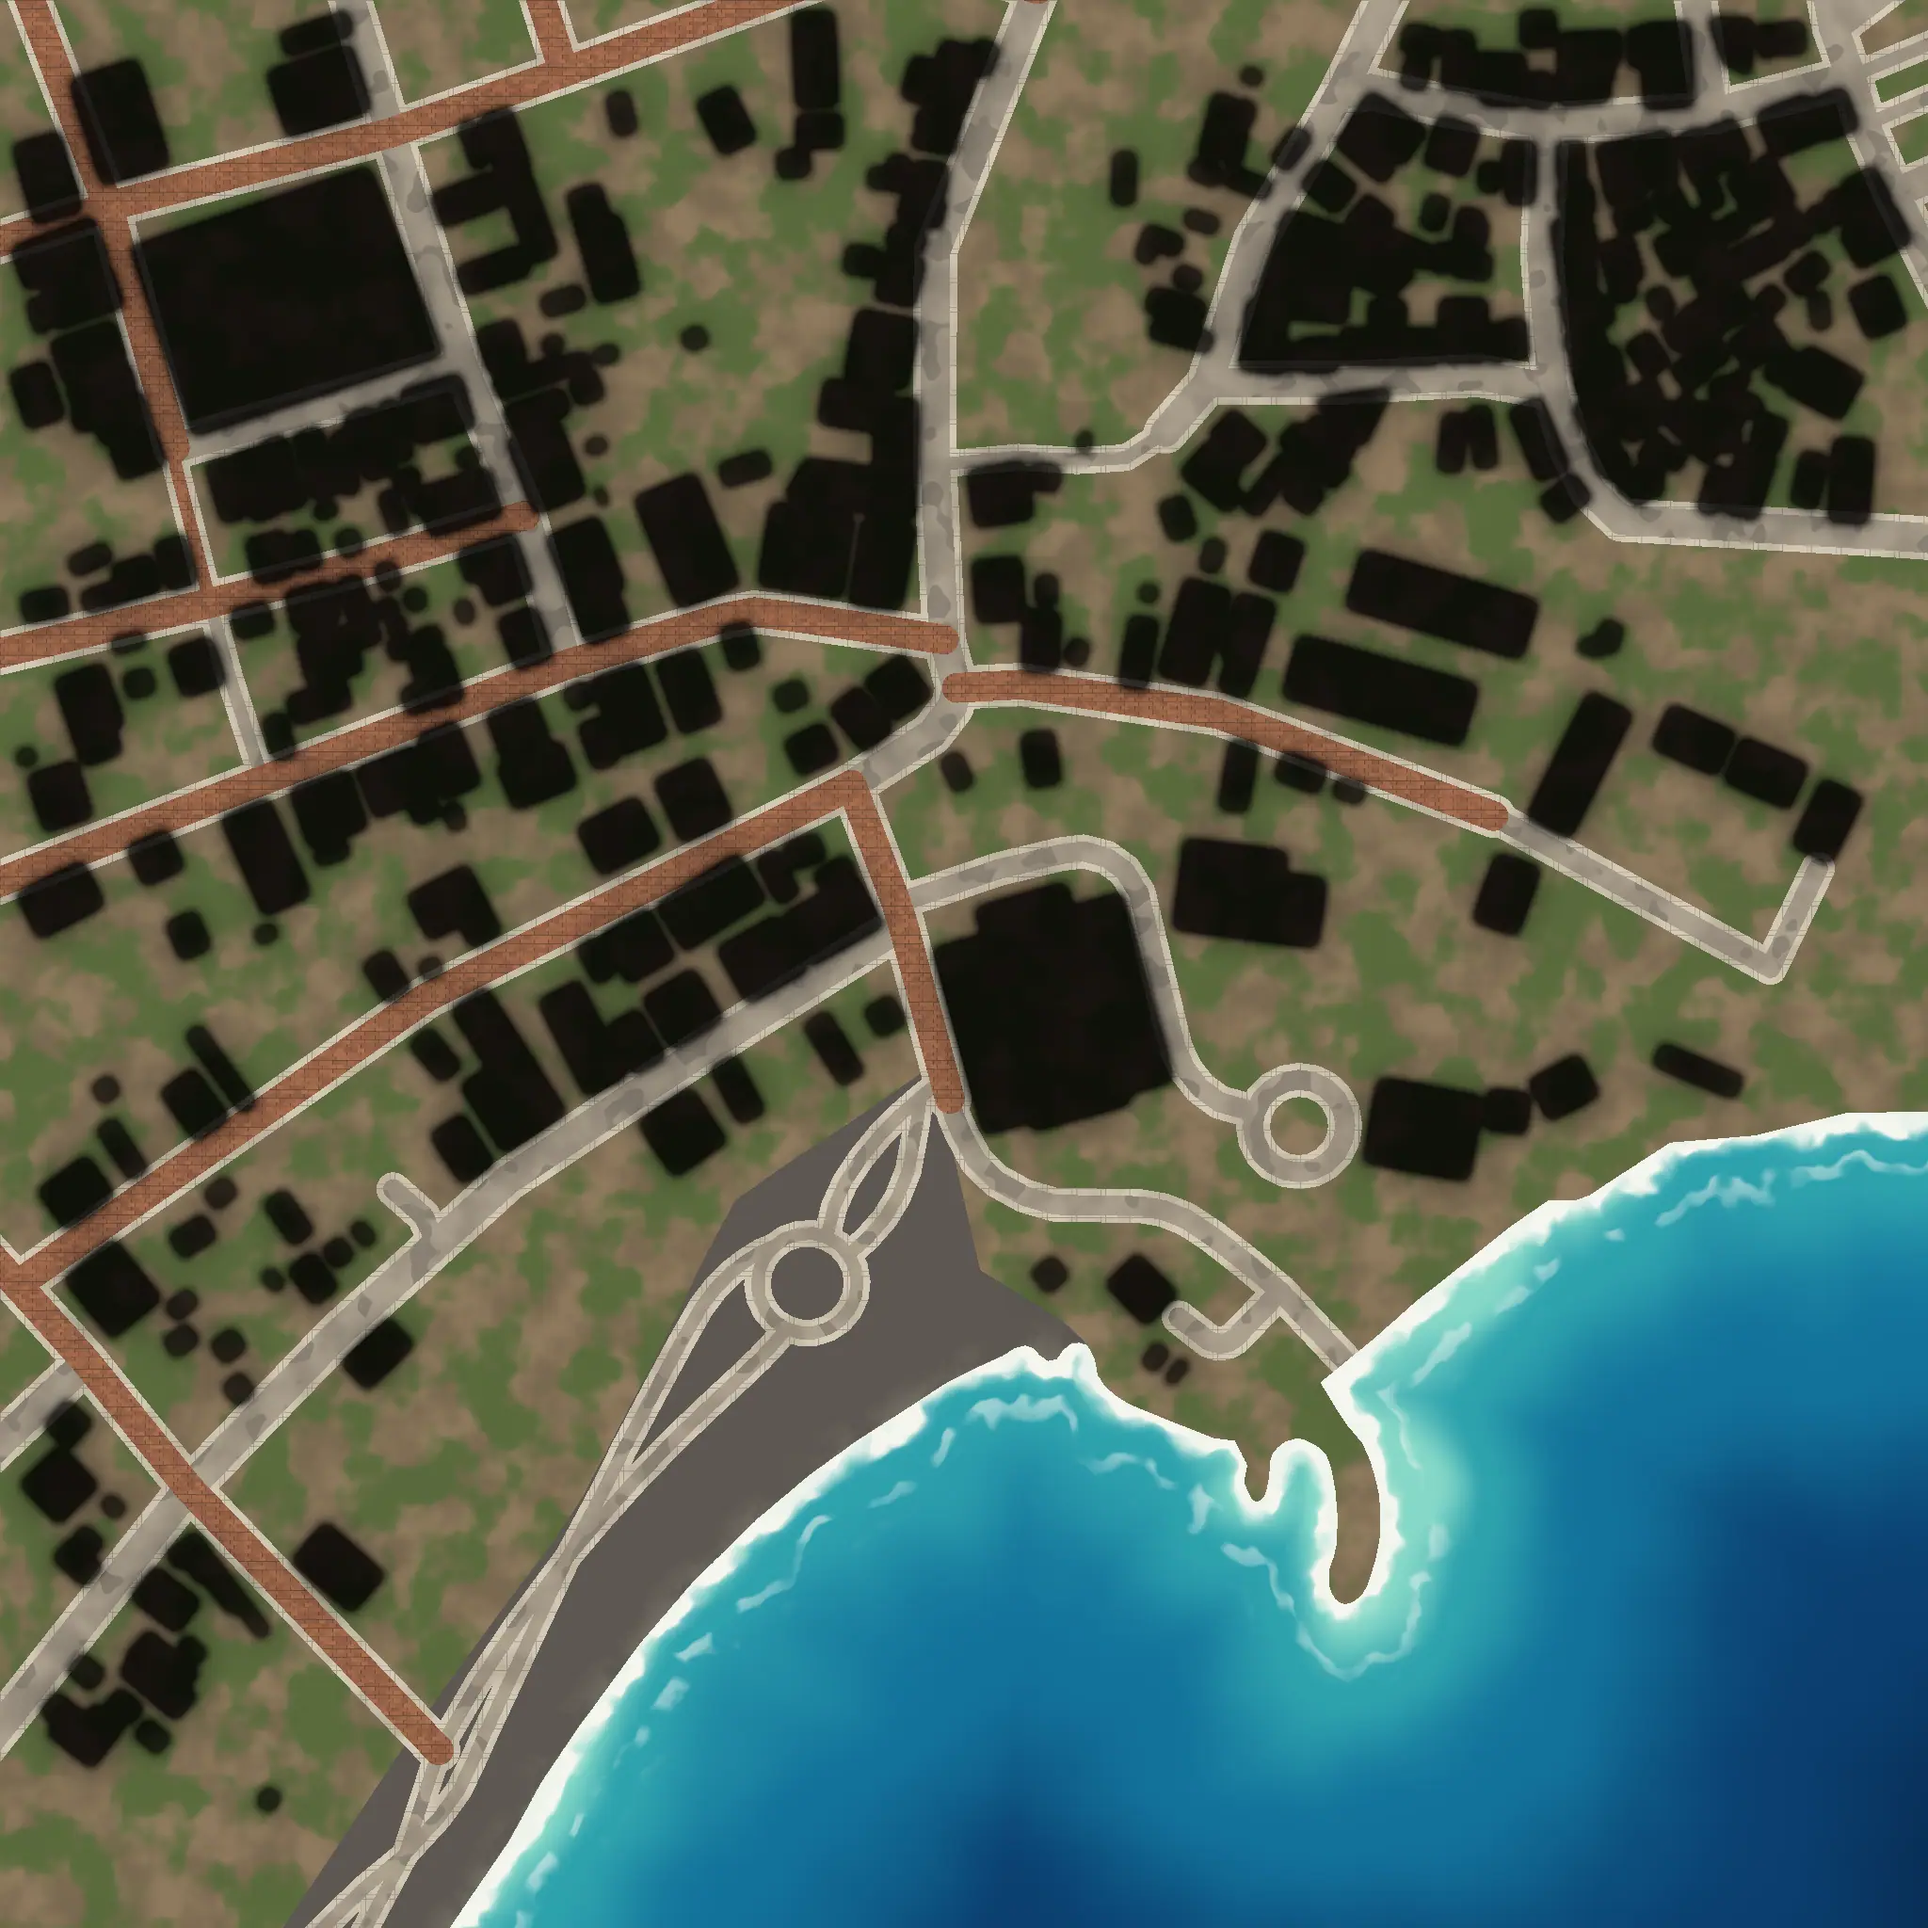
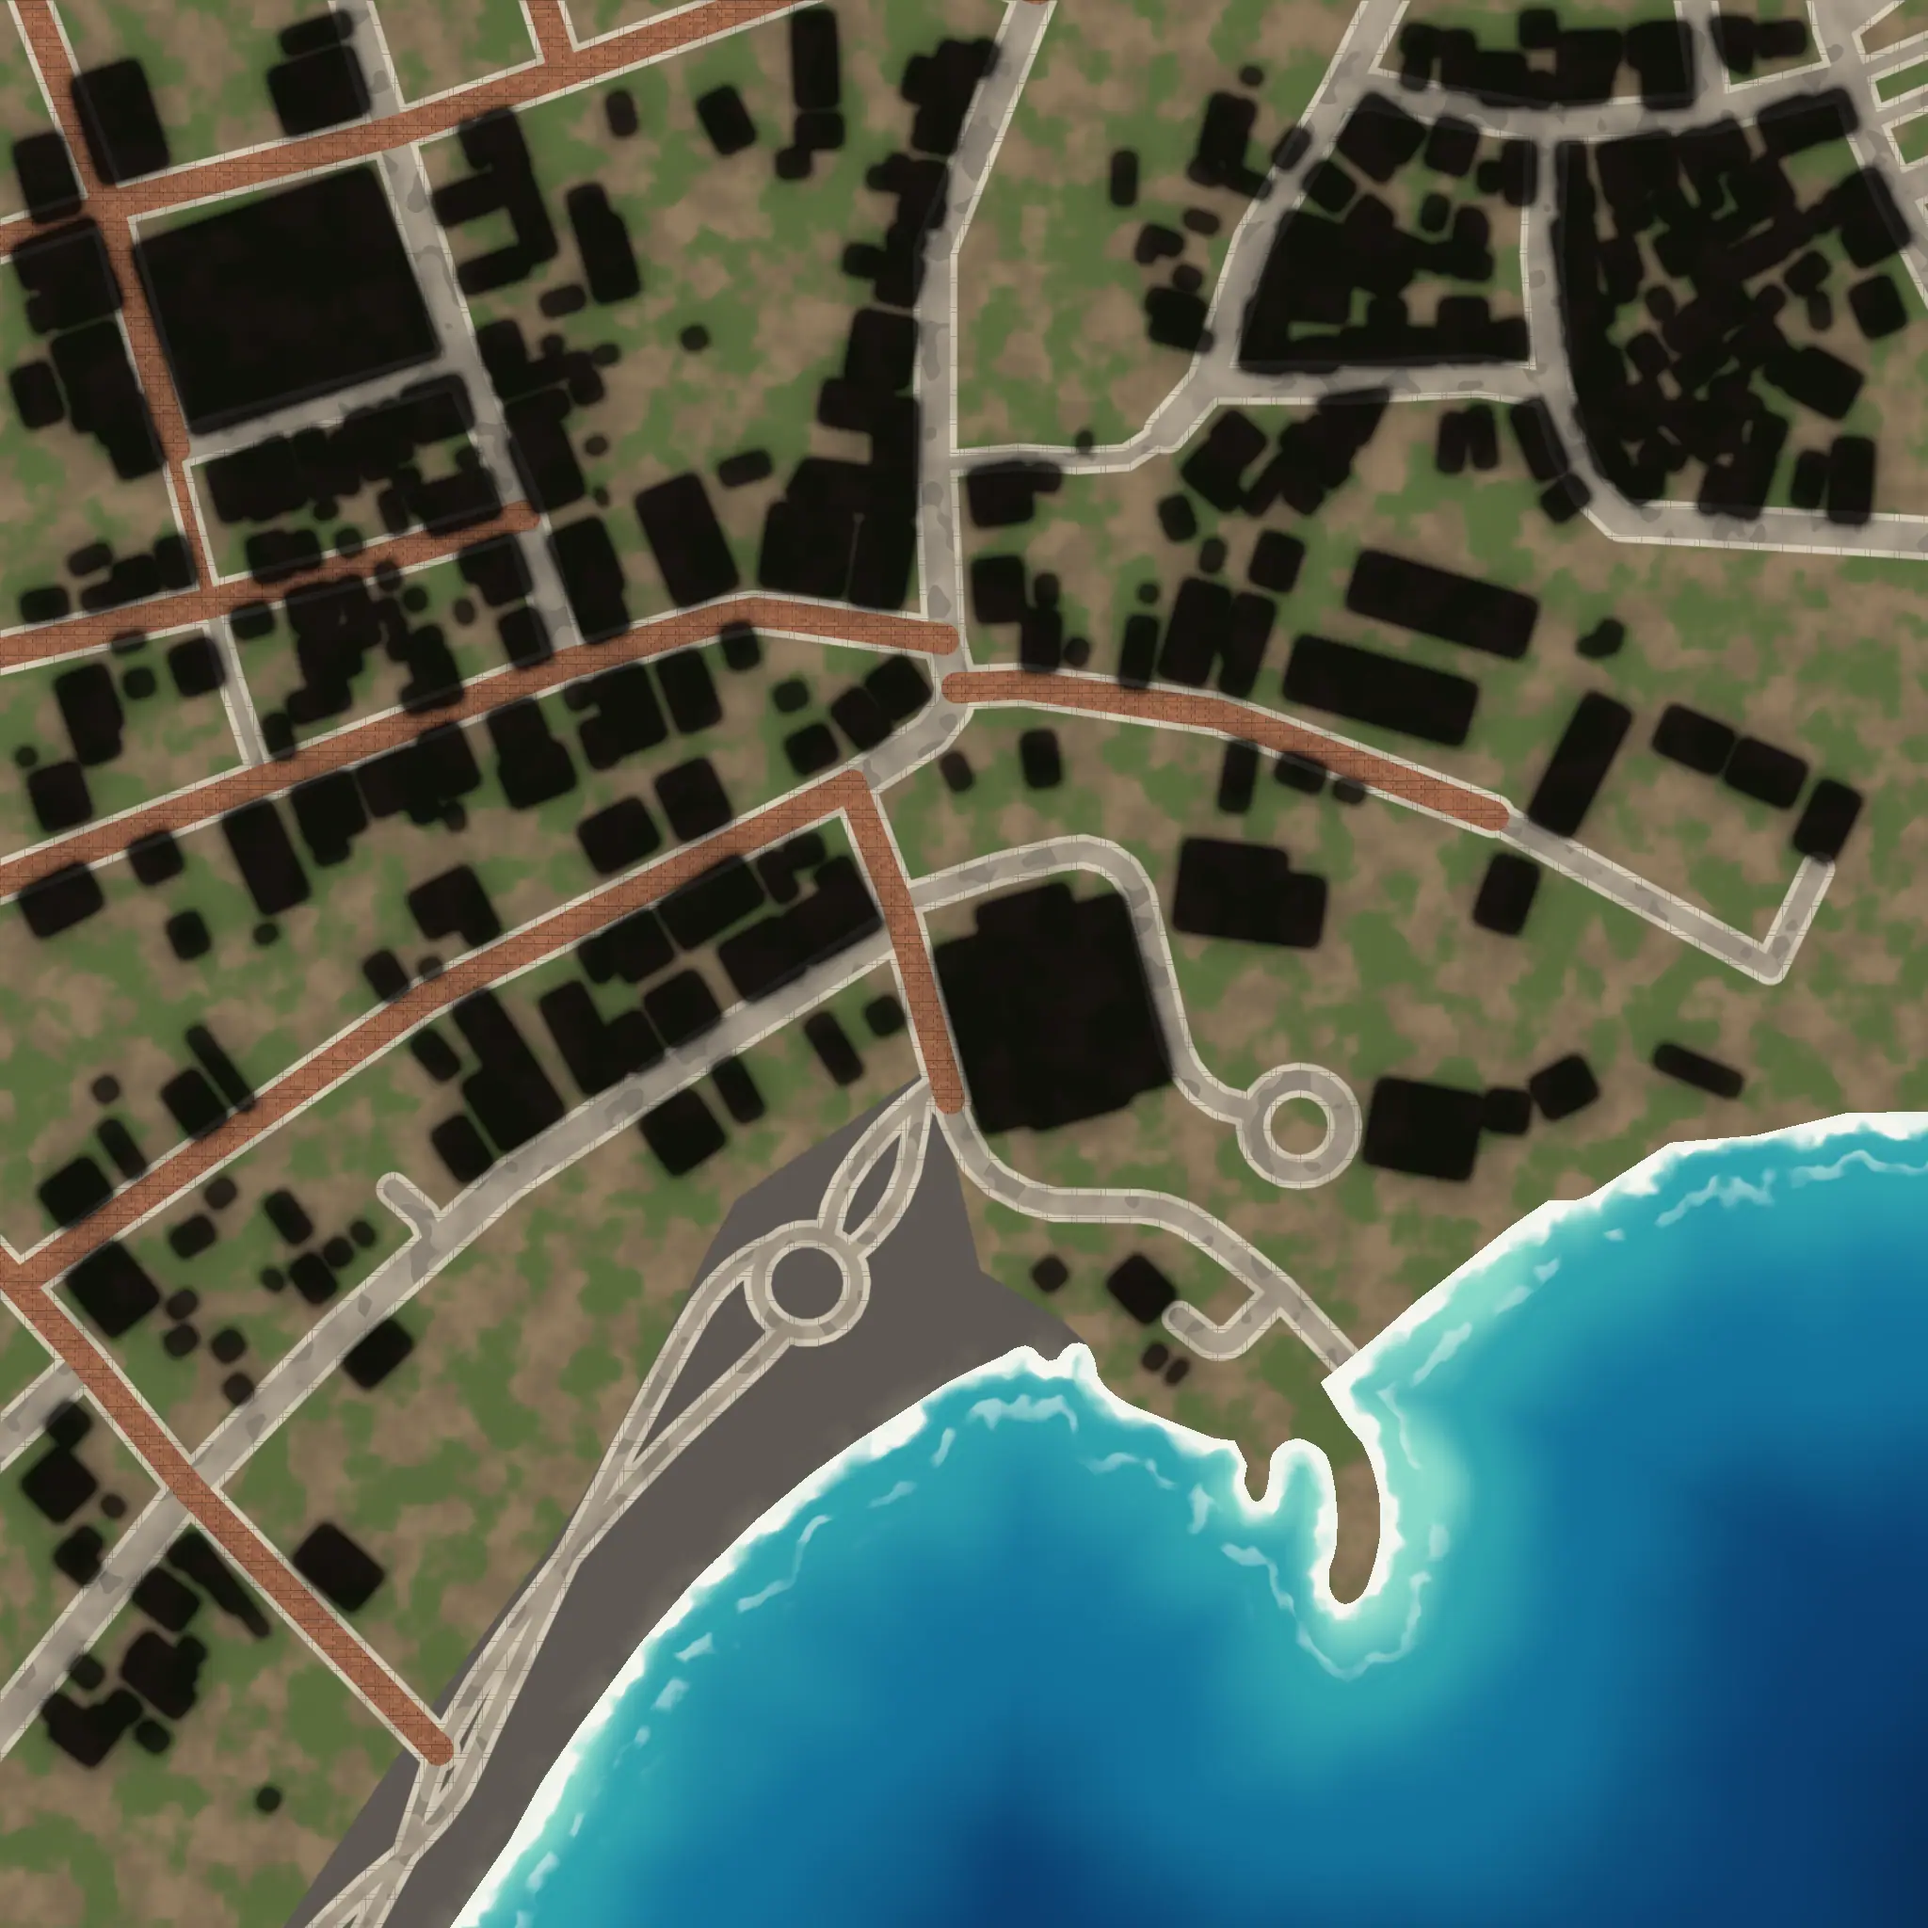
Maquette : sol net en gros plan et canevas à la bonne taille
Le sol était peint texel par texel avec des seuils francs, ce qui
dessinait des dents au bord des rues pendant le zoom. Chaque matière
est maintenant posée selon sa couverture, et seules les textures du
sol changent.

Un redimensionnement de la fenêtre pendant la construction de la 3D
était perdu et laissait une image floue : le canevas reprend sa taille
au moment où la 3D prend le relais.

diff --git a/src/sections/Seuil.tsx b/src/sections/Seuil.tsx
@@ -102,6 +102,7 @@ export function Seuil({ entered }: { entered: boolean }) {
       .then(m => {
         if (annule) return m.detruire()
         maquette.current = m
+        m.dimensionner() // la fenêtre a pu changer de taille pendant la construction
         m.regler({ pas: scrollYProgress.get() })
         m.rendre()
         setVivante(true)
